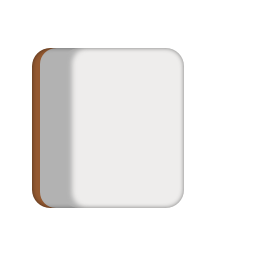
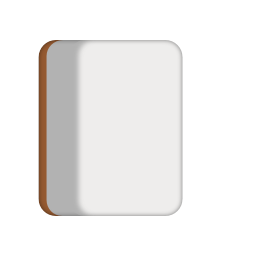
wip

Changed region(s): [[0.125, 0.1562, 0.7188, 0.8438]]

diff --git a/packages/frontend/src/pages/mahjong/room.game.vue b/packages/frontend/src/pages/mahjong/room.game.vue
@@ -236,11 +236,6 @@ let riichiSelect = false;
 function chooseTile(tile: Mahjong.Common.Tile, ev: MouseEvent) {
 	if (!isMyTurn.value) return;
 
-	sound.playUrl('/client-assets/mahjong/dahai.mp3', {
-		volume: 1,
-		playbackRate: 1,
-	});
-
 	iTsumoed.value = false;
 
 	props.connection!.send('dahai', {

diff --git a/packages/frontend/src/pages/mahjong/tile.vue b/packages/frontend/src/pages/mahjong/tile.vue
@@ -29,10 +29,10 @@ const props = defineProps<{
 	margin: -17px;
 }
 .h {
-	margin: -14px -20px -10px -20px;
+	margin: -14px -21px -5px;
 }
 .v {
-	margin: -14px -20px -10px -20px;
+	margin: -14px -18px -11px;
 }
 .bg {
 	position: absolute;
